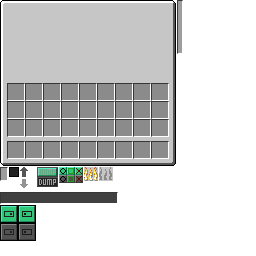
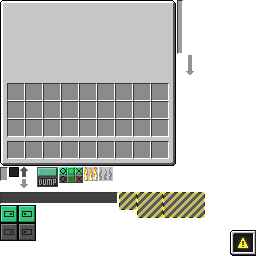
Start trying to add an output warning

Changed region(s): [[0.4375, 0.75, 0.8125, 0.875], [0.875, 0.875, 1.0, 1.0], [0.7188, 0.2188, 0.75, 0.3125]]

diff --git a/src/main/java/mekanism/client/gui/GuiFactory.java b/src/main/java/mekanism/client/gui/GuiFactory.java
@@ -70,23 +70,12 @@ public class GuiFactory extends GuiMekanismTile<TileEntityFactory> {
         }
 
         //Input and Output
-        if (tile.tier == FactoryTier.BASIC){
+        int Slotlocation = tileEntity.tier == FactoryTier.BASIC ? 54 : tileEntity.tier == FactoryTier.ADVANCED ? 34 : 28;
+        int xDistance = tileEntity.tier == FactoryTier.BASIC ? 38 : tileEntity.tier == FactoryTier.ADVANCED ? 26 : 19;
             for (int i = 0; i < tileEntity.tier.processes; i++) {
-                addGuiElement(new GuiSlot(GuiSlot.SlotType.INPUT, this, resource, 54 + (i * 38), 12));
-                addGuiElement(new GuiSlot(GuiSlot.SlotType.OUTPUT, this, resource, 54 + (i * 38), 56));
+                addGuiElement(new GuiSlot(GuiSlot.SlotType.INPUT, this, resource, Slotlocation + (i * xDistance), 12));
+                addGuiElement(new GuiSlot(GuiSlot.SlotType.OUTPUT, this, resource, Slotlocation + (i * xDistance), 56));
             }
-        }else if (tile.tier == FactoryTier.ADVANCED){
-            for (int i = 0; i < tileEntity.tier.processes; i++) {
-                addGuiElement(new GuiSlot(GuiSlot.SlotType.INPUT, this, resource, 34 + (i * 26), 12));
-                addGuiElement(new GuiSlot(GuiSlot.SlotType.OUTPUT, this, resource, 34 + (i * 26), 56));
-            }
-        }else if (tile.tier == FactoryTier.ELITE){
-            for (int i = 0; i < tileEntity.tier.processes; i++) {
-                addGuiElement(new GuiSlot(GuiSlot.SlotType.INPUT, this, resource, 28 + (i * 19), 12));
-                addGuiElement(new GuiSlot(GuiSlot.SlotType.OUTPUT, this, resource, 28 + (i * 19), 56));
-            }
-        }
-
         addGuiElement(new GuiSideConfigurationTab(this, tileEntity, resource));
         addGuiElement(new GuiTransporterConfigTab(this, 34, tileEntity, resource));
         addGuiElement(new GuiSortingTab(this, tileEntity, resource));
@@ -143,6 +132,12 @@ public class GuiFactory extends GuiMekanismTile<TileEntityFactory> {
                 InfuseType type = tileEntity.infuseStored.getType();
                 displayTooltip(type != null ? type.getLocalizedName() + ": " + tileEntity.infuseStored.getAmount() : LangUtils.localize("gui.empty"), xAxis, yAxis);
             }
+        }else if (xAxis >= -21 && xAxis <= -3 && yAxis >= 116 && yAxis <= 134) {
+            for (int i = 0; i < tileEntity.tier.processes; i++) {
+                if (tileEntity.inventory.get(5 + tileEntity.tier.processes + i).getCount() == tileEntity.inventory.get(5 + tileEntity.tier.processes + i).getMaxStackSize()) {
+                    displayTooltip(LangUtils.localize("tooltip.items") + LangUtils.localize("gui.no_space"), xAxis, yAxis);
+                }
+            }
         }
         super.drawGuiContainerForegroundLayer(mouseX, mouseY);
     }
@@ -153,11 +148,20 @@ public class GuiFactory extends GuiMekanismTile<TileEntityFactory> {
         super.drawGuiContainerBackgroundLayer(xAxis, yAxis);
         int xOffset = tileEntity.tier == FactoryTier.BASIC ? 59 : tileEntity.tier == FactoryTier.ADVANCED ? 39 : 33;
         int xDistance = tileEntity.tier == FactoryTier.BASIC ? 38 : tileEntity.tier == FactoryTier.ADVANCED ? 26 : 19;
+        int Slotlocation = tileEntity.tier == FactoryTier.BASIC ? 54 : tileEntity.tier == FactoryTier.ADVANCED ? 34 : 28;
         for (int i = 0; i < tileEntity.tier.processes; i++) {
             int xPos = xOffset + (i * xDistance);
             drawTexturedModalRect(guiLeft + xPos, guiTop + 33, 185, 52, 8, 20);
             int displayInt = tileEntity.getScaledProgress(20, i);
             drawTexturedModalRect(guiLeft + xPos, guiTop + 33, 176, 52, 8, displayInt);
+        }
+
+        for (int i = 0; i < tileEntity.tier.processes; i++){
+            boolean slot = tileEntity.inventory.get(5 + tileEntity.tier.processes + i).getCount() == tileEntity.inventory.get(5 + tileEntity.tier.processes + i).getMaxStackSize();
+            if (slot) {
+                drawTexturedModalRect(guiLeft + (Slotlocation + (i * xDistance)), guiTop + 56,211,238,18,18);
+                drawTexturedModalRect(guiLeft - 26, guiTop + 112,230,230,26,26);
+            }
         }
         if (tileEntity.getRecipeType().getFuelType() == MachineFuelType.ADVANCED || tileEntity.getRecipeType() == RecipeType.INFUSING) {
             drawTexturedModalRect(guiLeft + 7, guiTop + 77, 0, 179, 140, 7);

diff --git a/src/main/java/mekanism/client/gui/element/GuiWarningInfo.java b/src/main/java/mekanism/client/gui/element/GuiWarningInfo.java
@@ -1,0 +1,57 @@
+package mekanism.client.gui.element;
+
+import mekanism.client.gui.IGuiWrapper;
+import mekanism.common.util.MekanismUtils;
+import mekanism.common.util.MekanismUtils.ResourceType;
+import net.minecraft.util.ResourceLocation;
+import net.minecraftforge.fml.relauncher.Side;
+import net.minecraftforge.fml.relauncher.SideOnly;
+
+
+@SideOnly(Side.CLIENT)
+public class GuiWarningInfo extends GuiElement {
+
+    private final boolean HeatInfoenabled;
+
+    public GuiWarningInfo(IGuiWrapper gui, ResourceLocation def, boolean enabled) {
+        super(MekanismUtils.getResource(ResourceType.GUI_ELEMENT, "GuiWarningInfo.png"), gui, def);
+        HeatInfoenabled = enabled;
+    }
+
+    @Override
+    public Rectangle4i getBounds(int guiWidth, int guiHeight) {
+        return new Rectangle4i(guiWidth - 26, guiHeight + 138, 26, 26);
+    }
+
+    @Override
+    protected boolean inBounds(int xAxis, int yAxis) {
+        int height = 0;
+        if (HeatInfoenabled){
+             height =26 ;
+        }
+        return xAxis >= -21 && xAxis <= -3 && yAxis >= 116 + height && yAxis <= 134 + height;
+    }
+
+    @Override
+    public void renderBackground(int xAxis, int yAxis, int guiWidth, int guiHeight) {
+        mc.renderEngine.bindTexture(RESOURCE);
+        int height = 0;
+        if (HeatInfoenabled){
+            height = 26 ;
+        }
+        guiObj.drawTexturedRect(guiWidth - 26, guiHeight + 112 - height, 0, 0, 26, 26);
+        mc.renderEngine.bindTexture(defaultLocation);
+    }
+
+    @Override
+    public void renderForeground(int xAxis, int yAxis) {
+    }
+
+    @Override
+    public void preMouseClicked(int xAxis, int yAxis, int button) {
+    }
+
+    @Override
+    public void mouseClicked(int xAxis, int yAxis, int button) {
+    }
+}

diff --git a/src/main/java/mekanism/client/gui/GuiChanceMachine.java b/src/main/java/mekanism/client/gui/GuiChanceMachine.java
@@ -60,12 +60,24 @@ public class GuiChanceMachine<RECIPE extends ChanceMachineRecipe<RECIPE>> extend
     protected void drawGuiContainerBackgroundLayer(int xAxis, int yAxis) {
         super.drawGuiContainerBackgroundLayer(xAxis, yAxis);
         drawTexturedModalRect(guiLeft + 60, guiTop + 38,20,167,8,10);
+        if (tileEntity.inventory.get(2).getCount() == tileEntity.inventory.get(2).getMaxStackSize() ||
+                tileEntity.inventory.get(4).getCount() == tileEntity.inventory.get(4).getMaxStackSize()) {
+            drawTexturedModalRect(guiLeft + 111, guiTop + 30,163,192,42,26);
+            drawTexturedModalRect(guiLeft - 26, guiTop + 112,230,230,26,26);
+        }
     }
 
     @Override
     protected void drawGuiContainerForegroundLayer(int mouseX, int mouseY) {
         fontRenderer.drawString(tileEntity.getName(), 45, 6, 0x404040);
         fontRenderer.drawString(LangUtils.localize("container.inventory"), 8, (ySize - 96) + 2, 0x404040);
+        int xAxis = mouseX - guiLeft;
+        int yAxis = mouseY - guiTop;
+        if (xAxis >= -21 && xAxis <= -3 && yAxis >= 116 && yAxis <= 134) {
+            if (tileEntity.inventory.get(2).getCount() == tileEntity.inventory.get(2).getMaxStackSize() || tileEntity.inventory.get(4).getCount() != tileEntity.inventory.get(4).getMaxStackSize()) {
+                displayTooltip(LangUtils.localize("tooltip.items") + LangUtils.localize("gui.no_space"), xAxis, yAxis);
+            }
+        }
         super.drawGuiContainerForegroundLayer(mouseX, mouseY);
     }
 

diff --git a/src/main/java/mekanism/client/gui/GuiDoubleElectricMachine.java b/src/main/java/mekanism/client/gui/GuiDoubleElectricMachine.java
@@ -57,6 +57,10 @@ public class GuiDoubleElectricMachine<RECIPE extends DoubleMachineRecipe<RECIPE>
     protected void drawGuiContainerBackgroundLayer(int xAxis, int yAxis) {
         super.drawGuiContainerBackgroundLayer(xAxis, yAxis);
         drawTexturedModalRect(guiLeft + 60, guiTop + 38,20,167,8,10);
+        if (tileEntity.inventory.get(2).getCount() == tileEntity.inventory.get(2).getMaxStackSize()) {
+            drawTexturedModalRect(guiLeft + 111, guiTop + 30,137,192,26,26);
+            drawTexturedModalRect(guiLeft - 26, guiTop + 112,230,230,26,26);
+        }
     }
 
     public ProgressBar getProgressType() {
@@ -67,6 +71,13 @@ public class GuiDoubleElectricMachine<RECIPE extends DoubleMachineRecipe<RECIPE>
     protected void drawGuiContainerForegroundLayer(int mouseX, int mouseY) {
         fontRenderer.drawString(tileEntity.getName(), (xSize / 2) - (fontRenderer.getStringWidth(tileEntity.getName()) / 2), 6, 0x404040);
         fontRenderer.drawString(LangUtils.localize("container.inventory"), 8, (ySize - 96) + 2, 0x404040);
+        int xAxis = mouseX - guiLeft;
+        int yAxis = mouseY - guiTop;
+        if (xAxis >= -21 && xAxis <= -3 && yAxis >= 116 && yAxis <= 134) {
+            if (tileEntity.inventory.get(2).getCount() == tileEntity.inventory.get(2).getMaxStackSize()){
+                displayTooltip(LangUtils.localize("tooltip.items") +LangUtils.localize("gui.no_space"), xAxis, yAxis);
+            }
+        }
         super.drawGuiContainerForegroundLayer(mouseX, mouseY);
     }
 

diff --git a/src/main/java/mekanism/client/gui/GuiAdvancedElectricMachine.java b/src/main/java/mekanism/client/gui/GuiAdvancedElectricMachine.java
@@ -69,6 +69,10 @@ public class GuiAdvancedElectricMachine<RECIPE extends AdvancedMachineRecipe<REC
         if (xAxis >= 61 && xAxis <= 67 && yAxis >= 37 && yAxis <= 49) {
             displayTooltip(tileEntity.gasTank.getGas() != null ? tileEntity.gasTank.getGas().getGas().getLocalizedName() + ": " + tileEntity.gasTank.getStored()
                                                                : LangUtils.localize("gui.none"), xAxis, yAxis);
+        }else if (xAxis >= -21 && xAxis <= -3 && yAxis >= 116 && yAxis <= 134) {
+            if (tileEntity.inventory.get(2).getCount() == tileEntity.inventory.get(2).getMaxStackSize()) {
+                displayTooltip(LangUtils.localize("tooltip.items") + LangUtils.localize("gui.no_space"), xAxis, yAxis);
+            }
         }
         super.drawGuiContainerForegroundLayer(mouseX, mouseY);
     }
@@ -80,6 +84,10 @@ public class GuiAdvancedElectricMachine<RECIPE extends AdvancedMachineRecipe<REC
         if (tileEntity.getScaledGasLevel(12) > 0) {
             int displayInt = tileEntity.getScaledGasLevel(12);
             displayGauge(61, 37 + 12 - displayInt, 6, displayInt, tileEntity.gasTank.getGas());
+        }
+        if (tileEntity.inventory.get(2).getCount() == tileEntity.inventory.get(2).getMaxStackSize()) {
+            drawTexturedModalRect(guiLeft + 111, guiTop + 30,137,192,26,26);
+            drawTexturedModalRect(guiLeft - 26, guiTop + 112,230,230,26,26);
         }
     }
 

diff --git a/src/main/java/mekanism/client/gui/GuiElectricMachine.java b/src/main/java/mekanism/client/gui/GuiElectricMachine.java
@@ -61,12 +61,23 @@ public class GuiElectricMachine<RECIPE extends BasicMachineRecipe<RECIPE>> exten
     protected void drawGuiContainerBackgroundLayer(int xAxis, int yAxis) {
         super.drawGuiContainerBackgroundLayer(xAxis, yAxis);
         drawTexturedModalRect(guiLeft + 60, guiTop + 38,20,167,8,10);
+        if (tileEntity.inventory.get(2).getCount() == tileEntity.inventory.get(2).getMaxStackSize()) {
+            drawTexturedModalRect(guiLeft + 111, guiTop + 30,137,192,26,26);
+            drawTexturedModalRect(guiLeft - 26, guiTop + 112,230,230,26,26);
+        }
     }
 
     @Override
     protected void drawGuiContainerForegroundLayer(int mouseX, int mouseY) {
         fontRenderer.drawString(tileEntity.getName(), (xSize / 2) - (fontRenderer.getStringWidth(tileEntity.getName()) / 2), 6, 0x404040);
         fontRenderer.drawString(LangUtils.localize("container.inventory"), 8, (ySize - 96) + 2, 0x404040);
+        int xAxis = mouseX - guiLeft;
+        int yAxis = mouseY - guiTop;
+        if (xAxis >= -21 && xAxis <= -3 && yAxis >= 116 && yAxis <= 134) {
+            if (tileEntity.inventory.get(2).getCount() == tileEntity.inventory.get(2).getMaxStackSize()) {
+                displayTooltip(LangUtils.localize("tooltip.items") + LangUtils.localize("gui.no_space"), xAxis, yAxis);
+            }
+        }
         super.drawGuiContainerForegroundLayer(mouseX, mouseY);
     }
 

diff --git a/src/main/java/mekanism/client/gui/chemical/GuiChemicalCrystallizer.java b/src/main/java/mekanism/client/gui/chemical/GuiChemicalCrystallizer.java
@@ -84,7 +84,23 @@ public class GuiChemicalCrystallizer extends GuiMekanismTile<TileEntityChemicalC
             }
         }
         renderItem(renderStack, 131, 14);
+        int xAxis = mouseX - guiLeft;
+        int yAxis = mouseY - guiTop;
+        if (xAxis >= -21 && xAxis <= -3 && yAxis >= 116 && yAxis <= 134) {
+            if (tileEntity.inventory.get(1).getCount() == tileEntity.inventory.get(1).getMaxStackSize()) {
+                displayTooltip(LangUtils.localize("tooltip.items") + LangUtils.localize("gui.no_space"), xAxis, yAxis);
+            }
+        }
         super.drawGuiContainerForegroundLayer(mouseX, mouseY);
+    }
+
+    @Override
+    protected void drawGuiContainerBackgroundLayer(int xAxis, int yAxis) {
+        super.drawGuiContainerBackgroundLayer(xAxis, yAxis);
+        if (tileEntity.inventory.get(1).getCount() == tileEntity.inventory.get(1).getMaxStackSize()) {
+            drawTexturedModalRect(guiLeft + 130, guiTop + 56,119,192,18,18);
+            drawTexturedModalRect(guiLeft - 26, guiTop + 112,230,230,26,26);
+        }
     }
 
     @Override

diff --git a/src/main/java/mekanism/client/gui/GuiMekanism.java b/src/main/java/mekanism/client/gui/GuiMekanism.java
@@ -97,8 +97,10 @@ public abstract class GuiMekanism extends GuiContainer implements IGuiWrapper {
         drawTexturedModalRect(guiLeft, guiTop, 0, 0, xSize, ySize);
         int xAxis = mouseX - guiLeft;
         int yAxis = mouseY - guiTop;
-        drawGuiContainerBackgroundLayer(xAxis, yAxis);
+        //Bringing Elements forward to ContainerBackgroundLayer makes it easier to override Elements
         guiElements.forEach(element -> element.renderBackground(xAxis, yAxis, guiLeft, guiTop));
+        drawGuiContainerBackgroundLayer(xAxis, yAxis);
+
     }
 
     @Override

diff --git a/src/main/java/mekanism/common/Mekanism.java b/src/main/java/mekanism/common/Mekanism.java
@@ -12,7 +12,7 @@ import java.util.Map.Entry;
 import java.util.Set;
 import java.util.UUID;
 
-import mekanism.MekanismCEu.Tags;
+import mekanism.MekanismAll.Tags;
 import mekanism.api.Coord4D;
 import mekanism.api.EnumColor;
 import mekanism.api.MekanismAPI;
